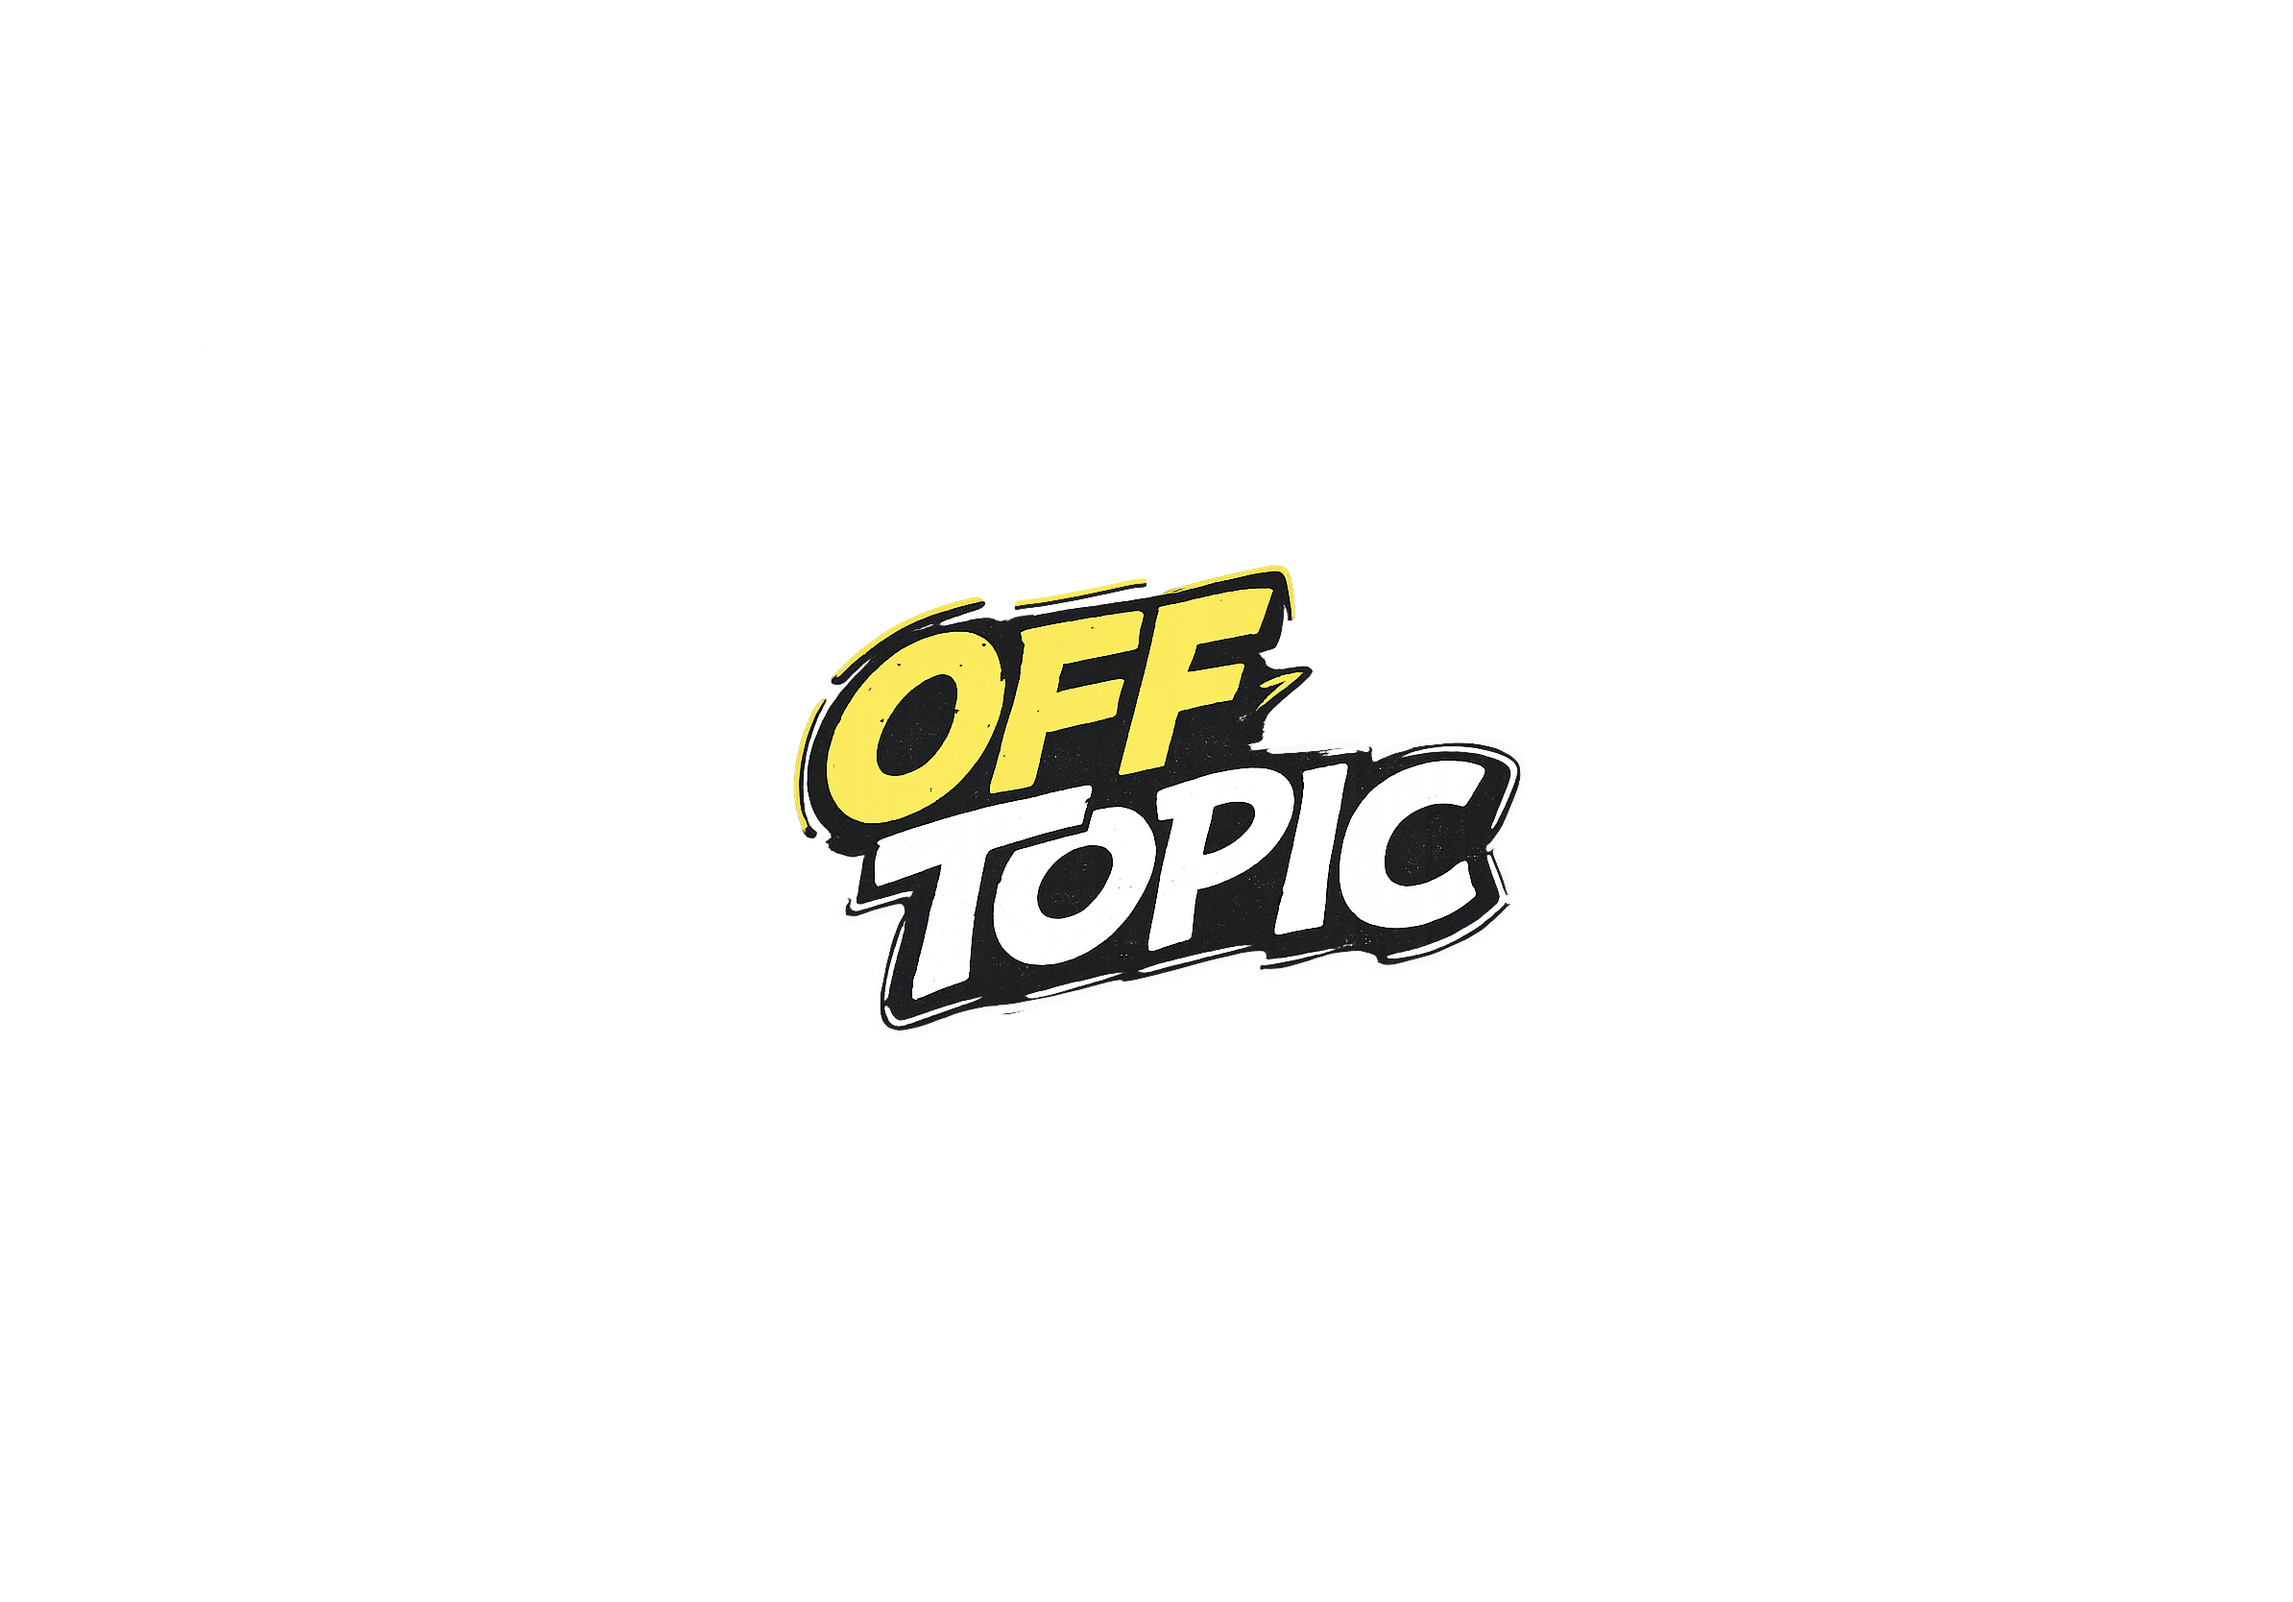
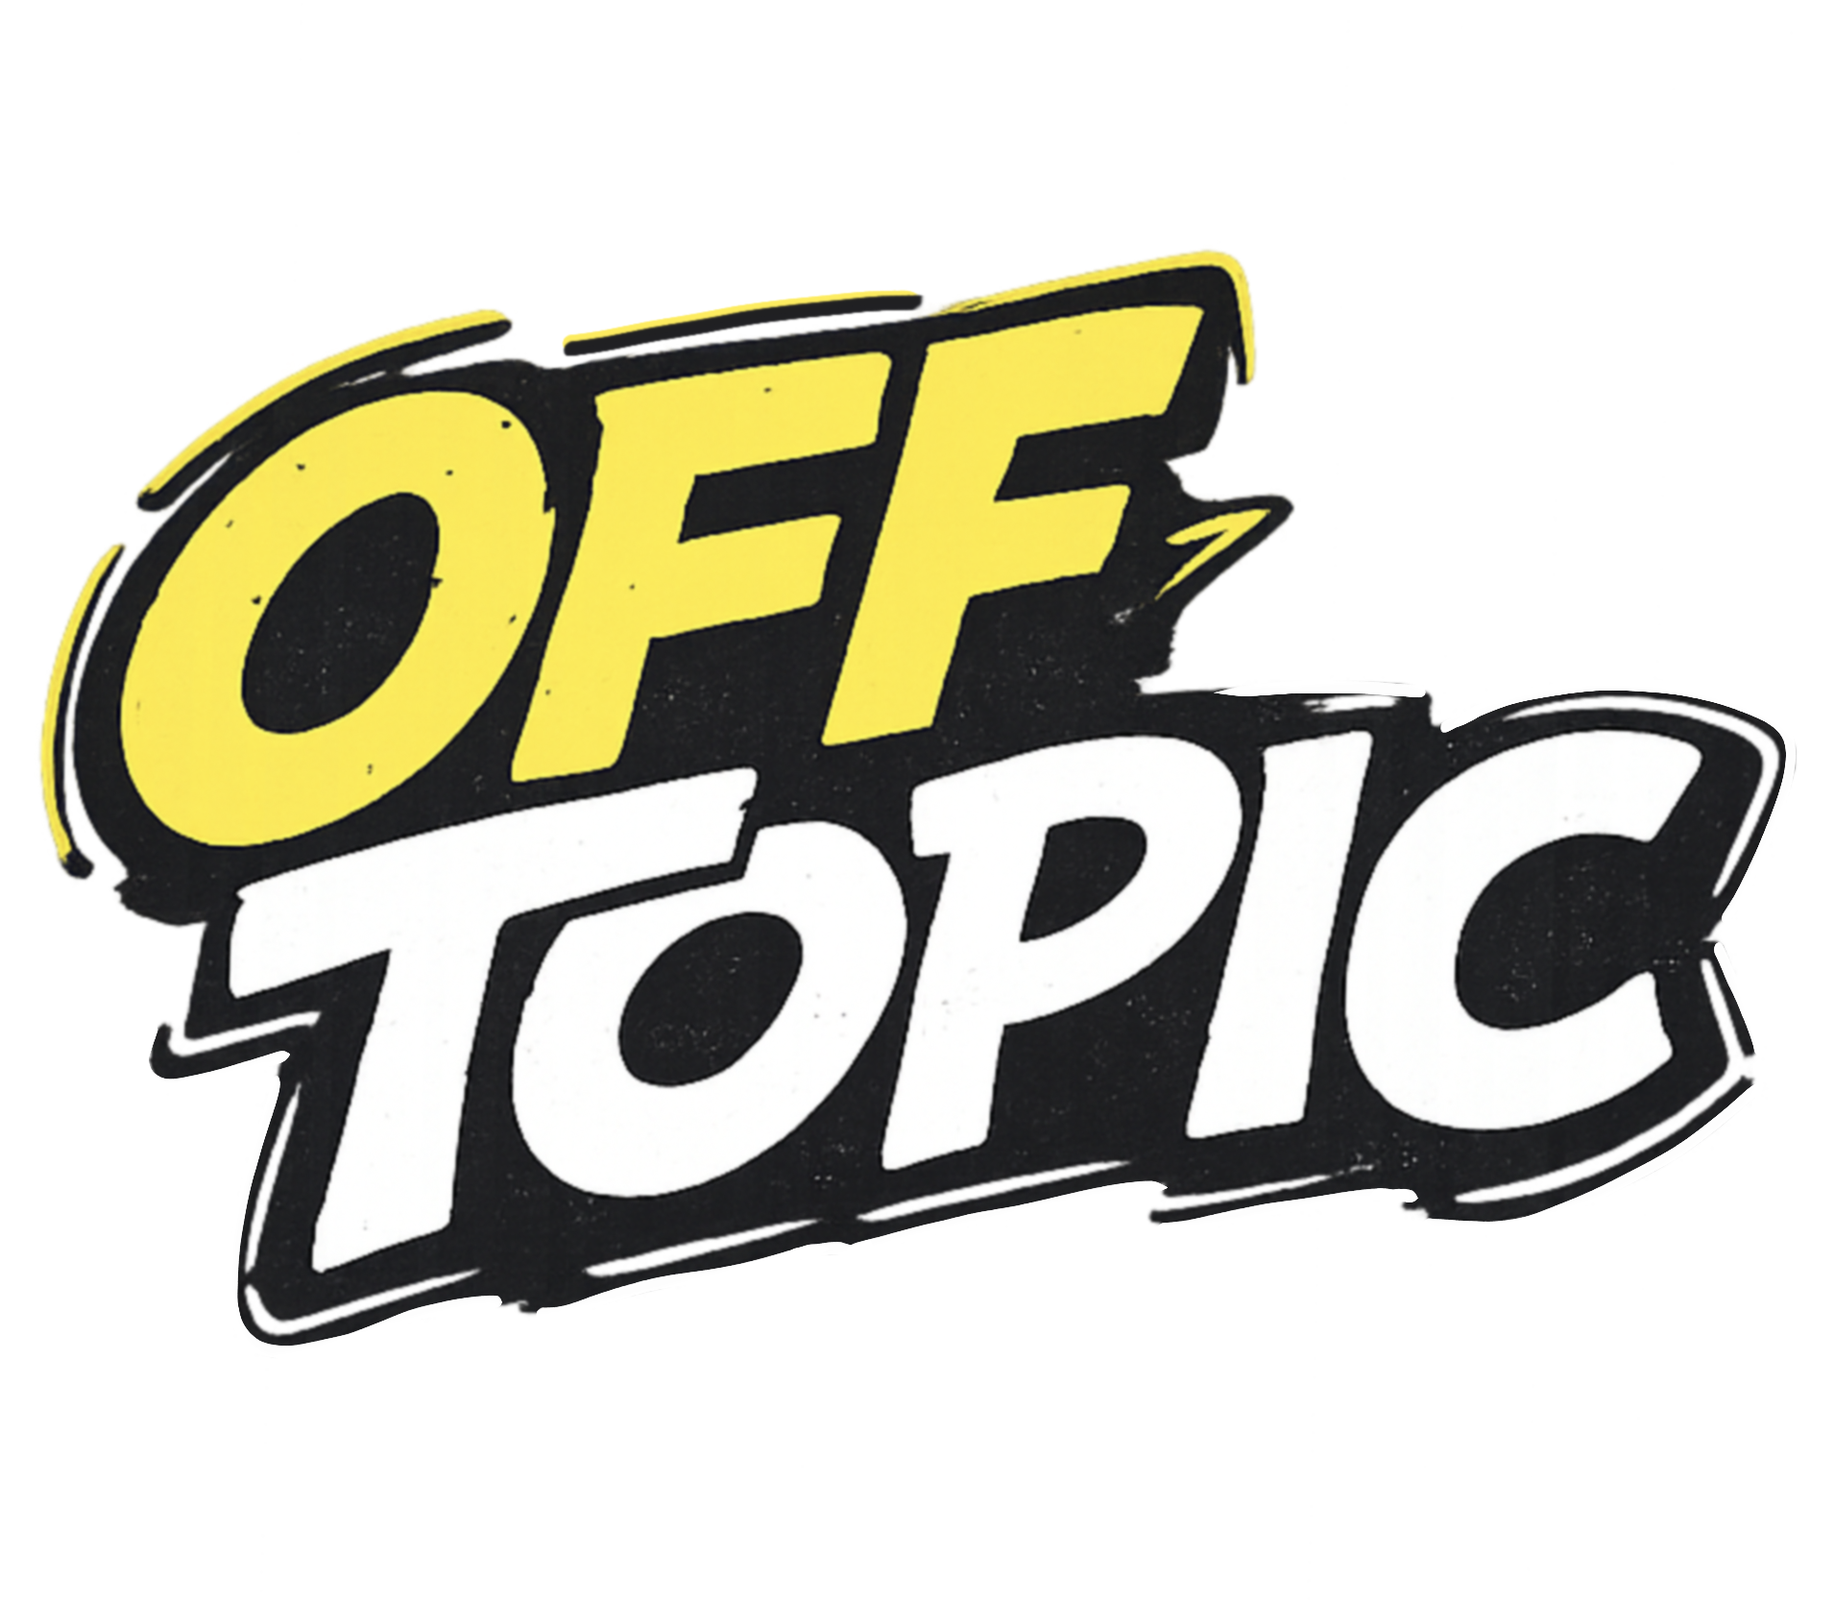
amélioration du son

diff --git a/components/AmbientAudio.tsx b/components/AmbientAudio.tsx
@@ -13,7 +13,7 @@ export function AmbientAudio() {
     const audio = new Audio(SOURCE);
     audio.loop = true;
     audio.preload = "auto";
-    audio.volume = 0.6; // ajuste ici si trop faible ou trop fort (0.0 à 1.0)
+    audio.volume = 1.0; // ajuste ici si trop faible ou trop fort (0.0 à 1.0)
     audioRef.current = audio;
 
     const tryPlay = async () => {
@@ -63,7 +63,20 @@ export function AmbientAudio() {
   }
 
   return (
-    <div className="audio-floating" style={{ right: 12, left: "auto", justifyItems: "end" }}>
+    <div
+      className="audio-floating"
+      style={{
+        right: 16,
+        left: "auto",
+        transform: "none",
+        bottom: 20,
+        display: "flex",
+        flexDirection: "column",
+        alignItems: "center",
+        gap: 4,
+        textAlign: "center",
+      }}
+    >
       <button
         className="btn btn-compact btn-ghost"
         style={{

diff --git a/app/page.tsx b/app/page.tsx
@@ -75,8 +75,8 @@ export default function HomePage() {
       }}
     >
       <div style={{ display: "grid", gap: 10, textAlign: "center", marginTop: -12 }}>
-        <div style={{ justifySelf: "center", width: "100%", maxWidth: 720 }}>
-          <Image src={titleLogo} alt="OFF-TOPIC" priority style={{ width: "100%", height: "auto" }} sizes="640px" />
+        <div style={{ justifySelf: "center", width: "100%", maxWidth: 200, marginBottom: 48 }}>
+          <Image src={titleLogo} alt="OFF-TOPIC" priority style={{ width: "100%", height: "auto" }} sizes="300px" />
         </div>
       </div>
       <div
